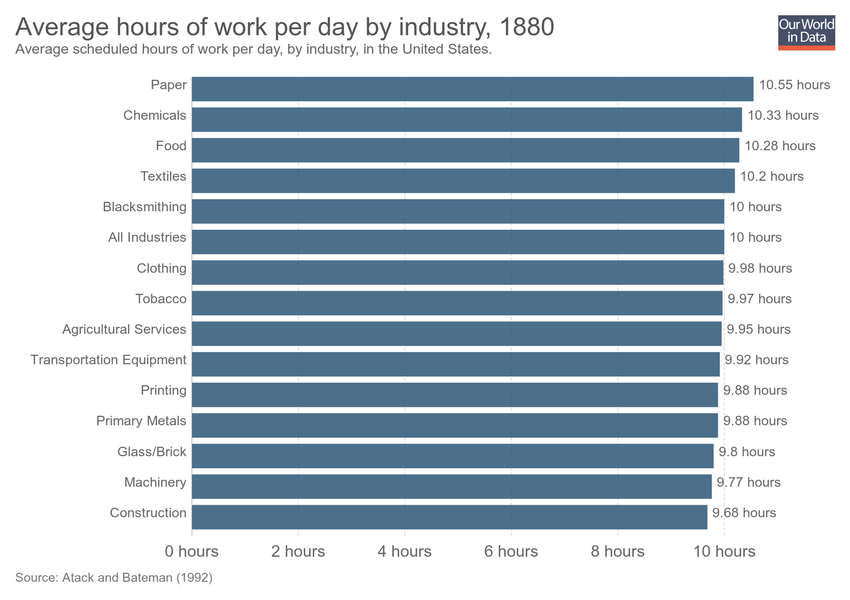
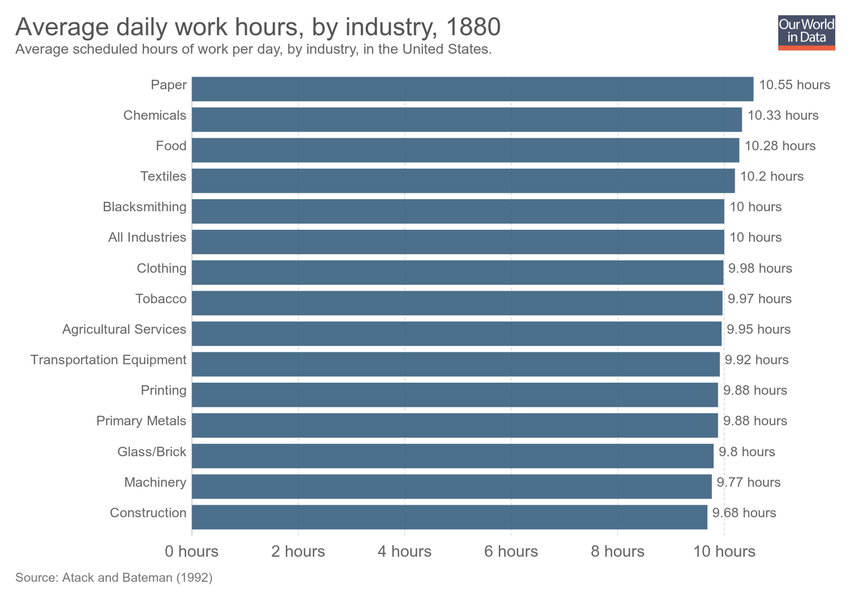
Updating chart average-hours-of-work-per-day-by-industry

Changed region(s): [[0.1224, 0.03, 0.6729, 0.06]]

diff --git a/grapher/average-hours-of-work-per-day-by-industry.html b/grapher/average-hours-of-work-per-day-by-industry.html
@@ -1,4 +1,4 @@
-<!doctype html><html><head><meta name="viewport" content="width=device-width, initial-scale=1" /><title>Average hours of work per day by industry - Our World in Data</title><meta name="description" content="Average scheduled hours of work per day, by industry, in the United States." /><link rel="canonical" href="https://ourworldindata.org/grapher/average-hours-of-work-per-day-by-industry" /><meta property="fb:app_id" content="1149943818390250" /><meta property="og:url" content="https://ourworldindata.org/grapher/average-hours-of-work-per-day-by-industry" /><meta property="og:title" content="Average hours of work per day by industry" /><meta property="og:description" content="Average scheduled hours of work per day, by industry, in the United States." /><meta property="og:image" content="https://ourworldindata.org/grapher/exports/average-hours-of-work-per-day-by-industry.png?v=1" /><meta property="og:image:width" content="850" /><meta property="og:image:height" content="600" /><meta property="og:site_name" content="Our World in Data" /><meta name="twitter:card" content="summary_large_image" /><meta name="twitter:site" content="@OurWorldInData" /><meta name="twitter:creator" content="@OurWorldInData" /><meta name="twitter:title" content="Average hours of work per day by industry" /><meta name="twitter:description" content="Average scheduled hours of work per day, by industry, in the United States." /><meta name="twitter:image" content="https://ourworldindata.org/grapher/exports/average-hours-of-work-per-day-by-industry.png?v=1" /><style>
+<!doctype html><html><head><meta name="viewport" content="width=device-width, initial-scale=1" /><title>Average daily work hours, by industry - Our World in Data</title><meta name="description" content="Average scheduled hours of work per day, by industry, in the United States." /><link rel="canonical" href="https://ourworldindata.org/grapher/average-hours-of-work-per-day-by-industry" /><meta property="fb:app_id" content="1149943818390250" /><meta property="og:url" content="https://ourworldindata.org/grapher/average-hours-of-work-per-day-by-industry" /><meta property="og:title" content="Average daily work hours, by industry" /><meta property="og:description" content="Average scheduled hours of work per day, by industry, in the United States." /><meta property="og:image" content="https://ourworldindata.org/grapher/exports/average-hours-of-work-per-day-by-industry.png?v=2" /><meta property="og:image:width" content="850" /><meta property="og:image:height" content="600" /><meta property="og:site_name" content="Our World in Data" /><meta name="twitter:card" content="summary_large_image" /><meta name="twitter:site" content="@OurWorldInData" /><meta name="twitter:creator" content="@OurWorldInData" /><meta name="twitter:title" content="Average daily work hours, by industry" /><meta name="twitter:description" content="Average scheduled hours of work per day, by industry, in the United States." /><meta name="twitter:image" content="https://ourworldindata.org/grapher/exports/average-hours-of-work-per-day-by-industry.png?v=2" /><style>
         html, body {
             height: 100%;
             margin: 0;
@@ -20,8 +20,8 @@
         }
     </style><noscript><style>
                     figure { display: none !important; }
-                </style></noscript><link rel="stylesheet" href="https://ourworldindata.org/grapher/assets/commons.bundle.b9f051796dbbbb7e5139.css" /><link rel="preload" href="/grapher/data/variables/97808.json?v=1" as="fetch" crossorigin /></head><body class="singleChart"><figure data-grapher-src="/grapher/average-hours-of-work-per-day-by-industry"></figure><noscript id="fallback"><img src="/grapher/exports/average-hours-of-work-per-day-by-industry.svg" /><p>Interactive visualization requires JavaScript</p></noscript><script src="https://cdn.polyfill.io/v2/polyfill.min.js?features=es6,fetch"></script><script src="https://ourworldindata.org/grapher/assets/commons.bundle.b9f051796dbbbb7e5139.js"></script><script src="https://ourworldindata.org/grapher/assets/charts.bundle.b9f051796dbbbb7e5139.js"></script><script>
-        var jsonConfig = {"map":{"projection":"World","colorSchemeLabels":[],"colorSchemeValues":[],"customNumericColors":[],"customCategoryColors":{},"customCategoryLabels":{},"customHiddenCategories":{}},"tab":"chart","slug":"average-hours-of-work-per-day-by-industry","type":"DiscreteBar","title":"Average hours of work per day by industry","xAxis":{"scaleType":"linear"},"yAxis":{"min":0,"scaleType":"linear"},"version":1,"subtitle":"Average scheduled hours of work per day, by industry, in the United States.","hasMapTab":false,"stackMode":"absolute","dimensions":[{"display":{"shortUnit":"hours","conversionFactor":0.0166666667},"property":"y","variableId":97808}],"entityType":"industry","isAutoSlug":true,"hasChartTab":true,"isPublished":true,"selectedData":[{"index":0,"entityId":37888},{"index":0,"entityId":37885},{"index":0,"entityId":37882},{"index":0,"entityId":37875},{"index":0,"entityId":37236},{"index":0,"entityId":37876},{"index":0,"entityId":29015},{"index":0,"entityId":29025},{"index":0,"entityId":37886},{"index":0,"entityId":37231},{"index":0,"entityId":37887},{"index":0,"entityId":18949},{"index":0,"entityId":37877},{"index":0,"entityId":37878},{"index":0,"entityId":37244}],"addCountryMode":"add-country","id":2953};
+                </style></noscript><link rel="stylesheet" href="https://ourworldindata.org/grapher/assets/commons.bundle.b9f051796dbbbb7e5139.css" /><link rel="preload" href="/grapher/data/variables/97808.json?v=2" as="fetch" crossorigin /></head><body class="singleChart"><figure data-grapher-src="/grapher/average-hours-of-work-per-day-by-industry"></figure><noscript id="fallback"><img src="/grapher/exports/average-hours-of-work-per-day-by-industry.svg" /><p>Interactive visualization requires JavaScript</p></noscript><script src="https://cdn.polyfill.io/v2/polyfill.min.js?features=es6,fetch"></script><script src="https://ourworldindata.org/grapher/assets/commons.bundle.b9f051796dbbbb7e5139.js"></script><script src="https://ourworldindata.org/grapher/assets/charts.bundle.b9f051796dbbbb7e5139.js"></script><script>
+        var jsonConfig = {"id":2953,"map":{"projection":"World","colorSchemeLabels":[],"colorSchemeValues":[],"customNumericColors":[],"customCategoryColors":{},"customCategoryLabels":{},"customHiddenCategories":{}},"tab":"chart","slug":"average-hours-of-work-per-day-by-industry","type":"DiscreteBar","title":"Average daily work hours, by industry","xAxis":{"scaleType":"linear"},"yAxis":{"min":0,"scaleType":"linear"},"version":2,"subtitle":"Average scheduled hours of work per day, by industry, in the United States.","hasMapTab":false,"stackMode":"absolute","dimensions":[{"display":{"shortUnit":"hours","conversionFactor":0.0166666667},"property":"y","variableId":97808}],"entityType":"industry","hasChartTab":true,"isPublished":true,"selectedData":[{"index":0,"entityId":37888},{"index":0,"entityId":37885},{"index":0,"entityId":37882},{"index":0,"entityId":37875},{"index":0,"entityId":37236},{"index":0,"entityId":37876},{"index":0,"entityId":29015},{"index":0,"entityId":29025},{"index":0,"entityId":37886},{"index":0,"entityId":37231},{"index":0,"entityId":37887},{"index":0,"entityId":18949},{"index":0,"entityId":37877},{"index":0,"entityId":37878},{"index":0,"entityId":37244}],"addCountryMode":"add-country"};
         var figure = document.getElementsByTagName("figure")[0];
         try {
             window.App = {};
